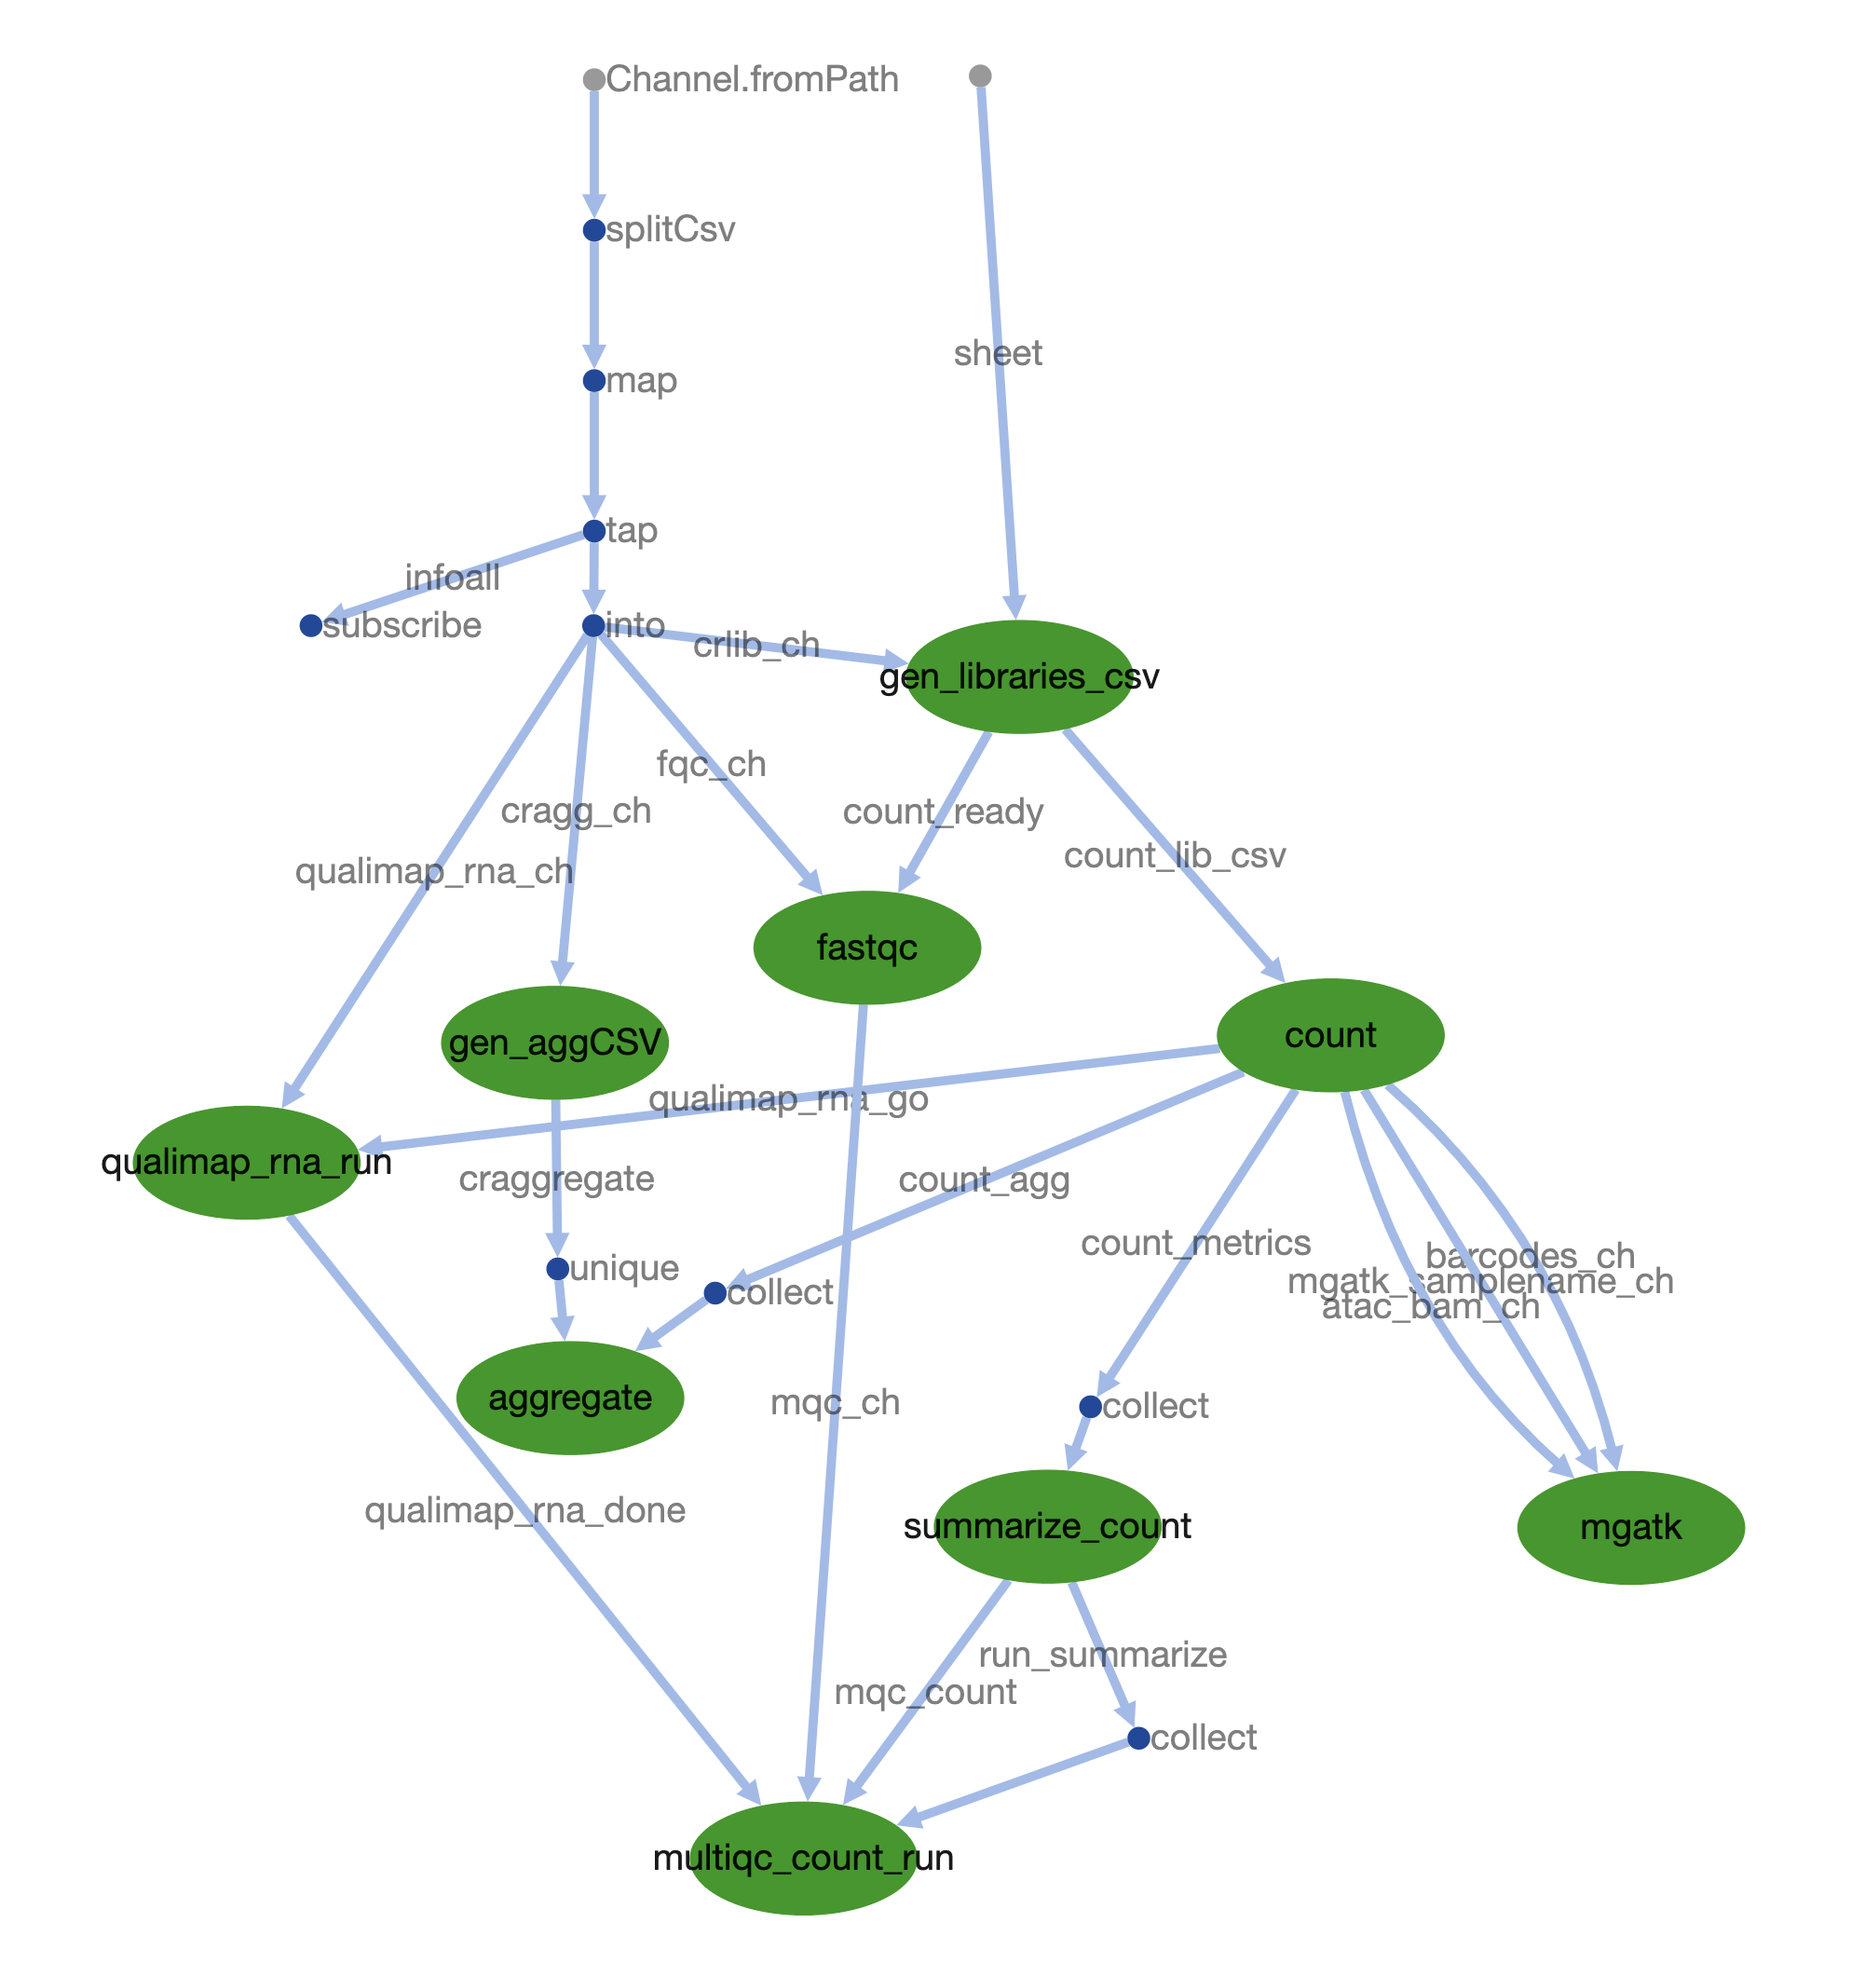
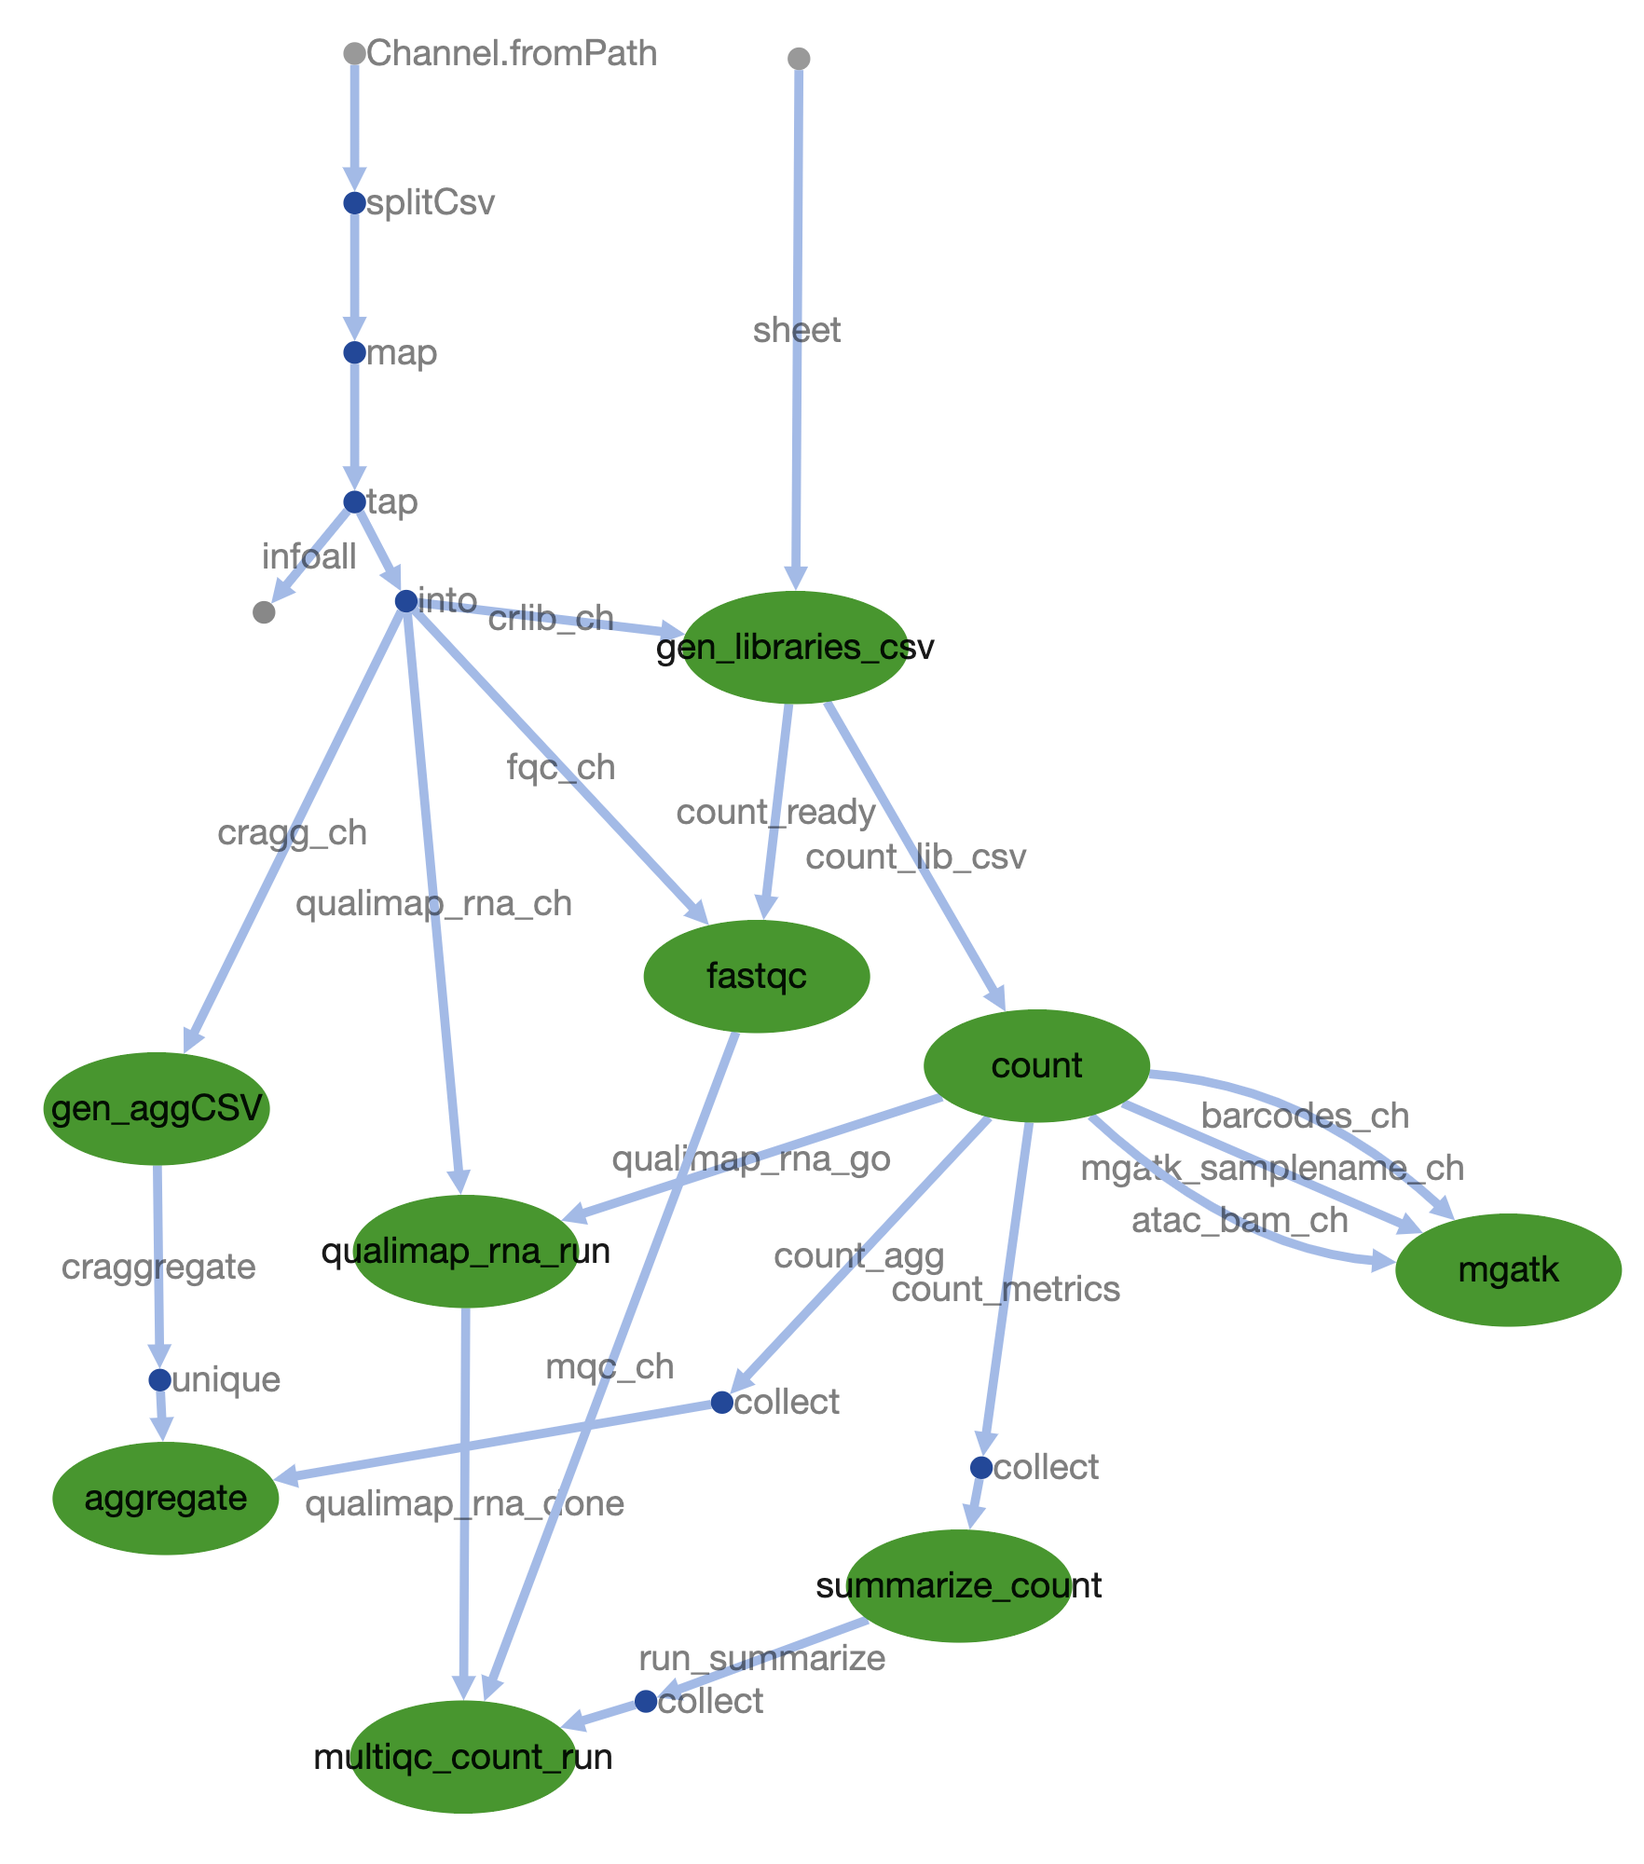
flowchart DAG

Changed region(s): [[0.0312, 0.0, 0.9977, 0.992], [0.2183, 0.0, 0.2806, 0.031]]

diff --git a/QC/flowchart.html b/QC/flowchart.html
@@ -109,8 +109,8 @@ nodes: [
 { data: { id: 'p1', label: 'splitCsv'}, classes: 'OPERATOR' },
 { data: { id: 'p2', label: 'map'}, classes: 'OPERATOR' },
 { data: { id: 'p3', label: 'tap'}, classes: 'OPERATOR' },
-{ data: { id: 'p4', label: 'into'}, classes: 'OPERATOR' },
-{ data: { id: 'p5', label: 'subscribe'}, classes: 'OPERATOR' },
+{ data: { id: 'p4'}, classes: 'NODE' },
+{ data: { id: 'p5', label: 'into'}, classes: 'OPERATOR' },
 { data: { id: 'p6'}, classes: 'ORIGIN' },
 { data: { id: 'p7', label: 'gen_libraries_csv'}, classes: 'PROCESS' },
 { data: { id: 'p8', label: 'count'}, classes: 'PROCESS' },
@@ -130,12 +130,12 @@ edges: [
 { data: { source: 'p0', target: 'p1'} },
 { data: { source: 'p1', target: 'p2'} },
 { data: { source: 'p2', target: 'p3'} },
-{ data: { source: 'p3', target: 'p5', label: 'infoall' } },
-{ data: { source: 'p3', target: 'p4'} },
-{ data: { source: 'p4', target: 'p12', label: 'cragg_ch' } },
-{ data: { source: 'p4', target: 'p17', label: 'fqc_ch' } },
-{ data: { source: 'p4', target: 'p7', label: 'crlib_ch' } },
-{ data: { source: 'p4', target: 'p11', label: 'qualimap_rna_ch' } },
+{ data: { source: 'p3', target: 'p5'} },
+{ data: { source: 'p3', target: 'p4', label: 'infoall' } },
+{ data: { source: 'p5', target: 'p12', label: 'cragg_ch' } },
+{ data: { source: 'p5', target: 'p7', label: 'crlib_ch' } },
+{ data: { source: 'p5', target: 'p11', label: 'qualimap_rna_ch' } },
+{ data: { source: 'p5', target: 'p17', label: 'fqc_ch' } },
 { data: { source: 'p6', target: 'p7', label: 'sheet' } },
 { data: { source: 'p7', target: 'p8', label: 'count_lib_csv' } },
 { data: { source: 'p7', target: 'p17', label: 'count_ready' } },
@@ -146,7 +146,6 @@ edges: [
 { data: { source: 'p8', target: 'p11', label: 'qualimap_rna_go' } },
 { data: { source: 'p8', target: 'p16', label: 'atac_bam_ch' } },
 { data: { source: 'p9', target: 'p10'} },
-{ data: { source: 'p10', target: 'p19', label: 'mqc_count' } },
 { data: { source: 'p10', target: 'p18', label: 'run_summarize' } },
 { data: { source: 'p11', target: 'p19', label: 'qualimap_rna_done' } },
 { data: { source: 'p12', target: 'p13', label: 'craggregate' } },
